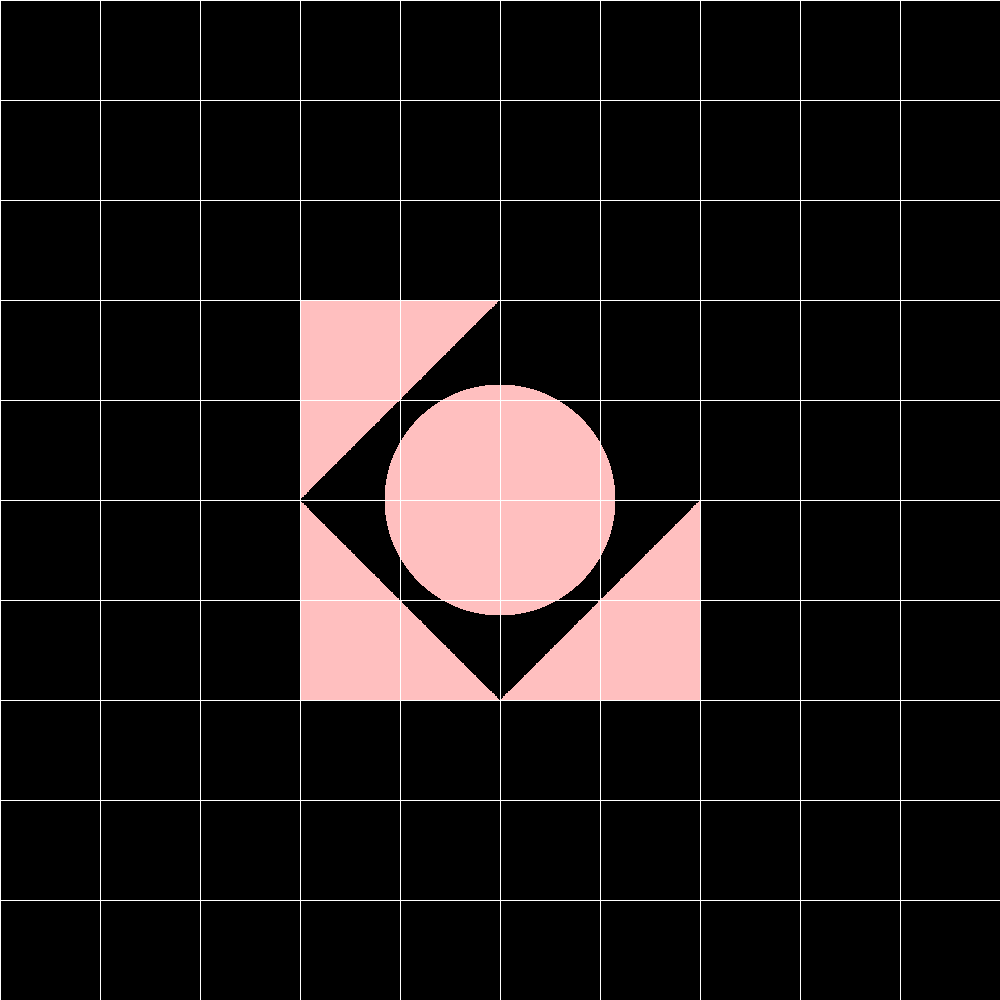
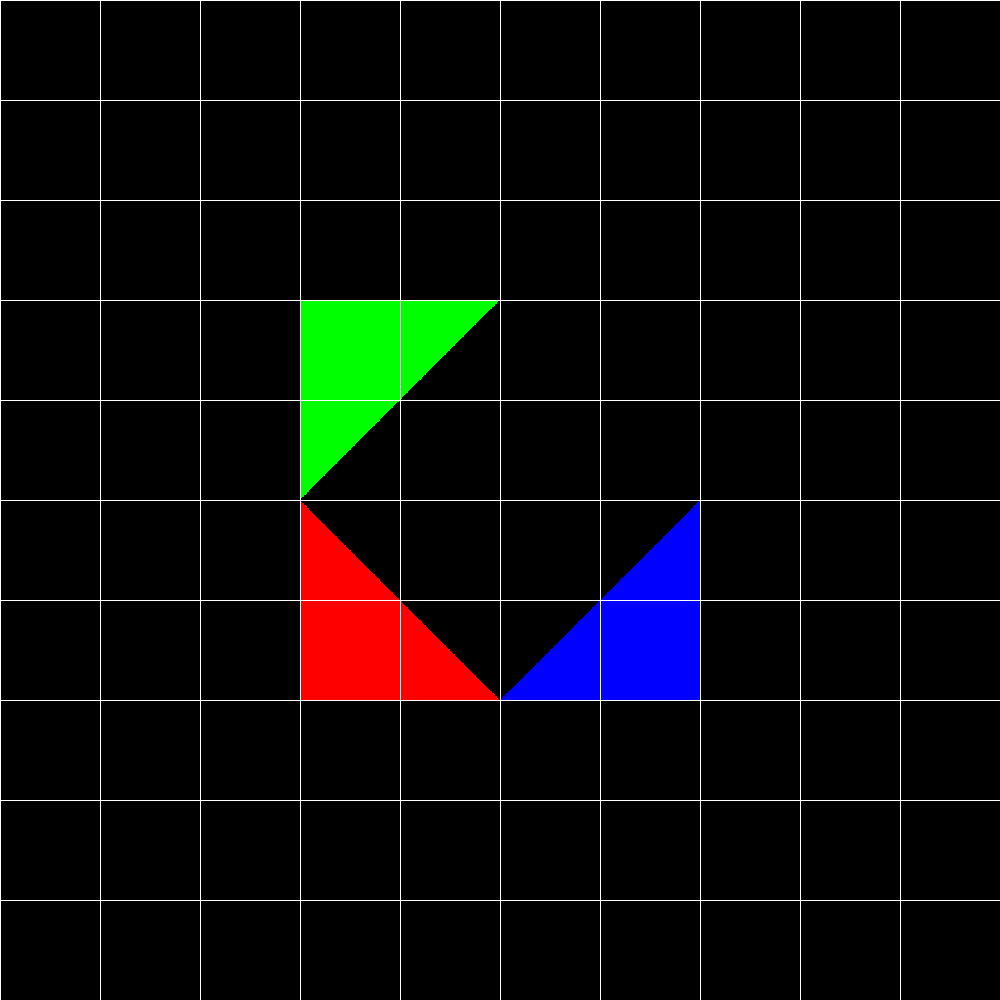
lighting, material, lights (in scene) and geo points

Changed region(s): [[0.279, 0.279, 0.713, 0.713]]

diff --git a/src/scene/Scene.java b/src/scene/Scene.java
@@ -2,7 +2,11 @@ package scene;
 
 import geometries.Geometries;
 import lighting.AmbientLight;
+import lighting.LightSource;
 import primitives.Color;
+
+import java.util.LinkedList;
+import java.util.List;
 
 /**
  * Scene class is the basic class representing a scene
@@ -21,12 +25,13 @@ public class Scene {
     public final Color background;
 
     /**ambient light of the scene, default in builder is black color*/
-    public AmbientLight ambientLight;
+    public final AmbientLight ambientLight;
 
     /**geometries of the scene*/
     public final Geometries geometries;
 
-
+    /**lights of the scene*/
+    public final List<LightSource> lights;
 
     /**
      * constructor
@@ -39,8 +44,8 @@ public class Scene {
         this.background = builder.background;
         this.geometries = builder.geometries;
         this.ambientLight = builder.ambientLight;
+        this.lights = builder.lights;
     }
-
 
     /**
      * inner class,
@@ -63,6 +68,8 @@ public class Scene {
         /**geometries of the scene*/
         private Geometries geometries = new Geometries();
 
+        /**lights of the scene*/
+        private List<LightSource> lights = new LinkedList<>();
         /**
          * constructor
          * @param name - the name of the scene
@@ -84,6 +91,11 @@ public class Scene {
 
         public SceneBuilder setGeometries(Geometries geometries) {
             this.geometries = geometries;
+            return this;
+        }
+
+        public SceneBuilder setLights(List<LightSource> lights) {
+            this.lights = lights;
             return this;
         }
 

diff --git a/src/lighting/DirectionalLight.java b/src/lighting/DirectionalLight.java
@@ -5,7 +5,9 @@ import primitives.Point;
 import primitives.Vector;
 
 /**
- * ************לשים לב מה שצריך להיות פיינאל!!!!!!!!!!! **
+ * A class to represent directional light.
+ * extends Light implements LightSource
+ * in direction light no attenuation with distance
  */
 public class DirectionalLight extends Light implements LightSource {
 
@@ -23,12 +25,12 @@ public class DirectionalLight extends Light implements LightSource {
 
     @Override
     public Color getIntensity(Point p) {
-        return null;
+        return this.getIntensity();
     }
 
     @Override
     public Vector getL(Point p) {
-        return null;
+        return this.direction;
     }
 
 //    @Override

diff --git a/src/lighting/PointLight.java b/src/lighting/PointLight.java
@@ -10,7 +10,7 @@ import primitives.Vector;
  */
 
 public class PointLight  extends Light implements  LightSource{
-    Point position;
+    private Point position;
    private double kC = 1;
     private double kL = 0;
     private double kQ = 0;
@@ -42,11 +42,12 @@ public class PointLight  extends Light implements  LightSource{
 
     @Override
     public Color getIntensity(Point p) {
-        return null;
-    } //TODO
+        double dd = position.distanceSquared(p);
+        return getIntensity().reduce(kC + kL * Math.sqrt(dd) + kQ * dd);
+    }
 
     @Override
     public Vector getL(Point p) {
-        return null;
-    } //TODO
+        return p.subtract(position);
+    }
 }

diff --git a/src/renderer/RayTracerBasic.java b/src/renderer/RayTracerBasic.java
@@ -45,8 +45,9 @@ public class RayTracerBasic extends RayTracerBase {
      */
     //private Color
     private Color calcColor(GeoPoint gp, Ray ray) {
-            Scene scene = new Scene.SceneBuilder("scene1").build();
-            Color color = new Color(255, 191, 191);
-            return color;
+        Scene scene = new Scene.SceneBuilder("scene1").build();
+        return scene.ambientLight.getIntensity().add(gp.geometry.getEmission());
+        //Color color = new Color(255, 191, 191);
+       // return color;
     }
 }

diff --git a/src/primitives/Material.java b/src/primitives/Material.java
@@ -1,9 +1,14 @@
 package primitives;
 
+/**
+ * Material class is the basic class representing a material of a geometry
+ *
+ * @author Pazit and Leah
+ */
 public class Material {
-    private Double3 kD;
-    private Double3 kS;
-    private int nShininess;
+    public Double3 kD = new Double3(0, 0, 0);
+    public Double3 kS = new Double3(0, 0, 0);
+    public int nShininess = 0;
 
     public Material setKd(Double3 kd3) {
         this.kD = kd3;

diff --git a/unitTests/geometries/CylinderTest.java b/unitTests/geometries/CylinderTest.java
@@ -23,7 +23,7 @@ class CylinderTest {
      * *********!!!!!!!!!!!the tests here are for example only!!!!!*******************
      */
     @Test
-    @Disabled
+    @Disabled //TODO
     void testGetNormal() {
         Ray ray = new Ray(new Point(0, 1, 0), new Vector(0, 1, 0));
         Cylinder cylinder = new Cylinder(2, ray, 4);

diff --git a/src/lighting/SpotLight.java b/src/lighting/SpotLight.java
@@ -17,4 +17,10 @@ public class SpotLight extends PointLight{
       super(position, intensity);
       this.direction = dir;
    }
+
+   @Override
+   public Color getIntensity(Point p) {
+      Vector l = getL(p);
+      return super.getIntensity(p).scale(Math.max(0, direction.dotProduct(l)));
+   }
 }

diff --git a/src/lighting/Light.java b/src/lighting/Light.java
@@ -26,5 +26,5 @@ abstract class Light {
      *
      * @return the intensity of the light
      */
-    protected Color getIntensity(){ return this.intensity;}
+    public Color getIntensity(){ return this.intensity;}
 }

diff --git a/src/lighting/LightSource.java b/src/lighting/LightSource.java
@@ -9,7 +9,7 @@ import primitives.Vector;
  */
 public interface LightSource {
 
-    Color getIntensity(Point p);
+    Color getIntensity(Point p); //at a point IL
 
     Vector getL(Point p);
 }
